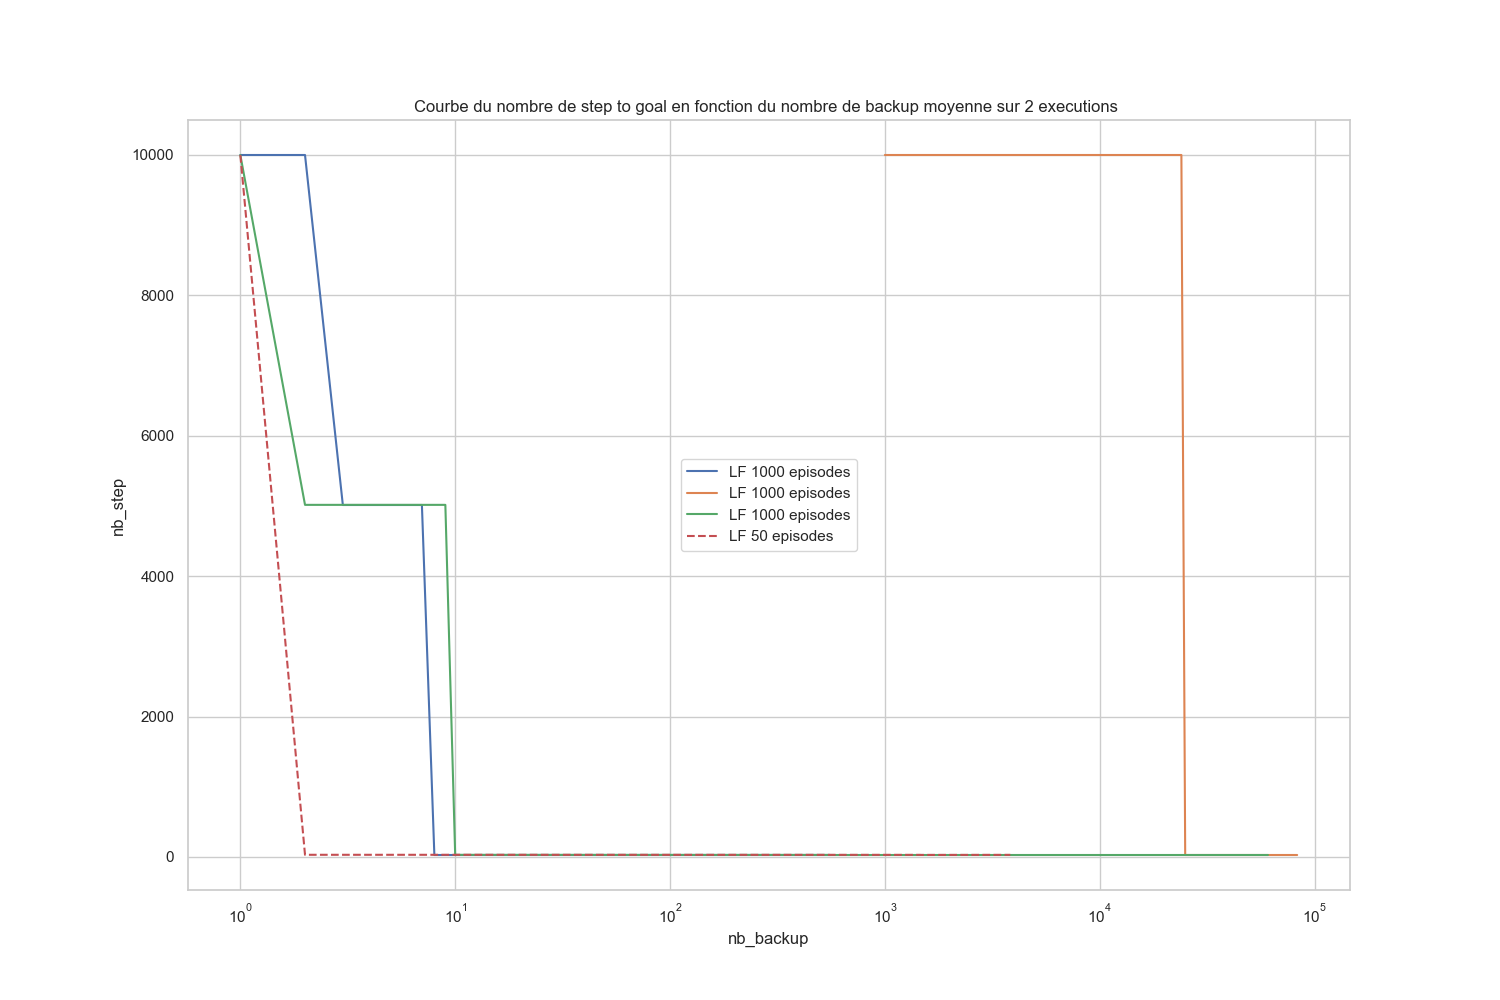
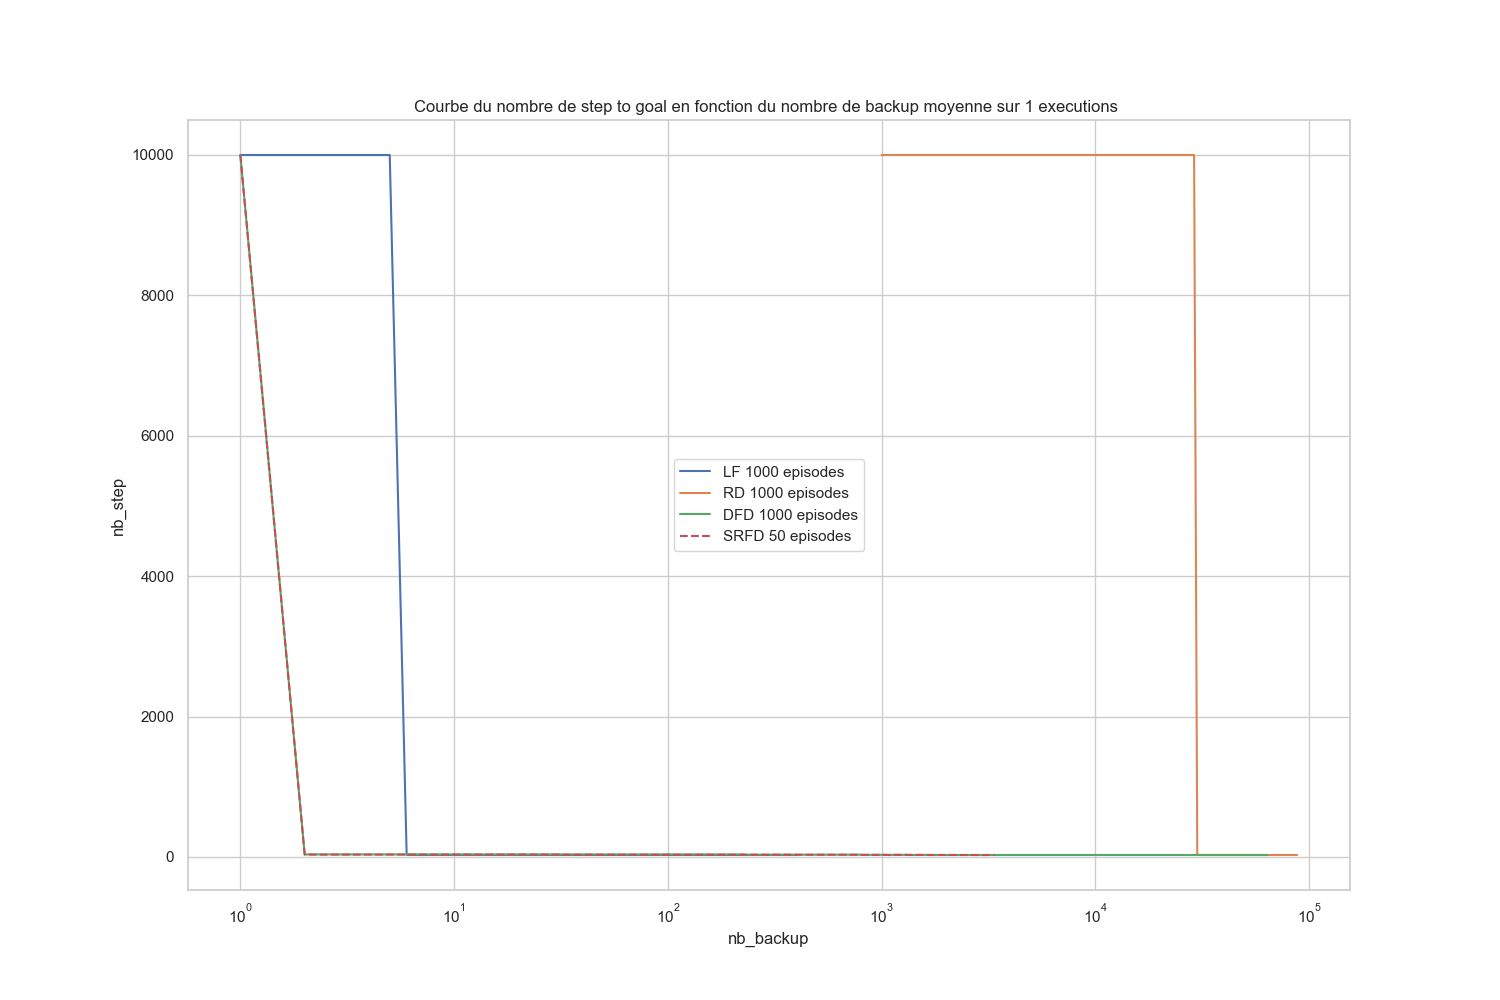
final version of fig-8 (currently)

diff --git a/prma/fig-8.py b/prma/fig-8.py
@@ -108,8 +108,6 @@ sns.lineplot(x=moyenne_par_indice(all_backups_dfd), y=moyenne_par_indice(all_ste
 
 sns.lineplot(x=moyenne_par_indice(all_backups_srfd), y=moyenne_par_indice(all_steps_srfd),label = f"SRFD {SR.episode} episodes",errorbar='sd',linestyle="--",err_style='band')
 
-
-
 #plt.text(0.2,0.5, f" $\epsilon$ : {config.main.epsilon}\n $\delta$ : {config.main.delta}\n α : {config.main.alpha}\n $\gamma$ : {config.main.gamma}\n max_step : {config.main.max_step}\n nb_episode : {config.main.nb_episode}\n labyrinthe : {laby}", fontsize =11)
 
 plt.title(f'Courbe du nombre de step to goal en fonction du nombre de backup moyenne sur {nb_exec} executions ')
@@ -121,3 +119,8 @@ plt.grid(True)
 plt.savefig(output_path)
 
 
+
+print("Variance LG :",np.var(moyenne_par_indice(all_steps_lg)))
+print("Variance RD :",np.var(moyenne_par_indice(all_steps_rd)))
+print("Variance DFD :",np.var(moyenne_par_indice(all_steps_dfd)))
+print("Variance SRFD :",np.var(moyenne_par_indice(all_steps_srfd)))
